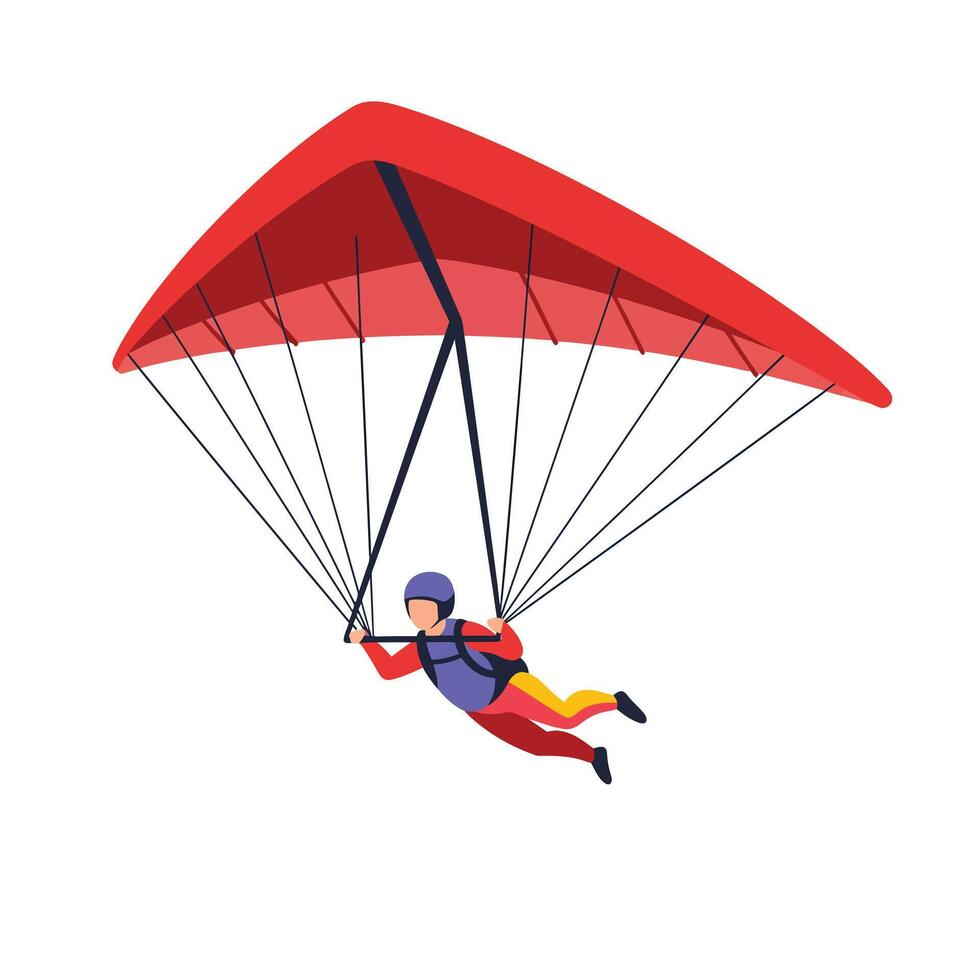
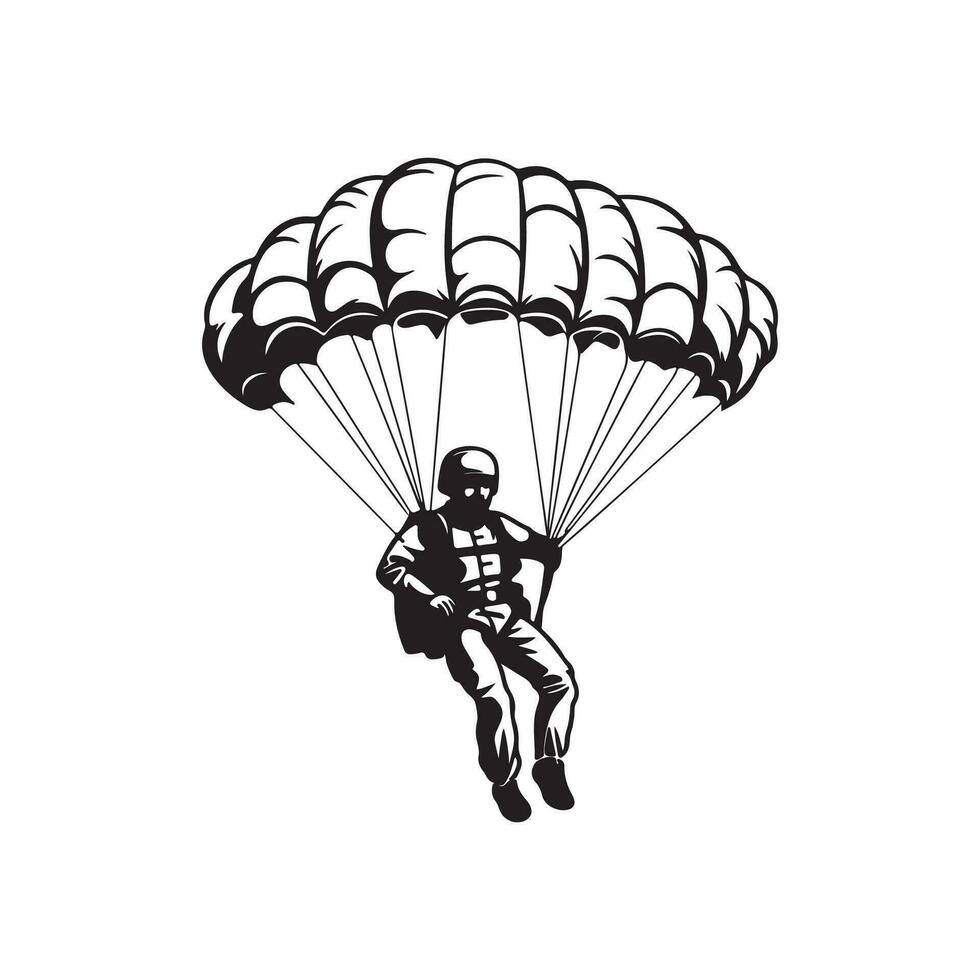
video & footer

diff --git a/index.html b/index.html
@@ -218,7 +218,8 @@
                             <div class="content">
                                 <div class="title thm-clr1">We aim to get you flying</div>
                                 <div class="big-title">Paragliding in Kenya</div>
-                                <div class="text">As passionate Paragliders, we love all aspects of freeflying, from ridge
+                                <div class="text">As passionate Paragliders, we love all aspects of freeflying, from
+                                    ridge
                                     soaring and hike-and-fly to cross-country, competitions, and acro.</div>
                                 <div class="btn-box">
                                     <a href="tel:[phone redacted]">Start Flying</a>
@@ -239,7 +240,8 @@
                 <div class="row">
                     <div class="col-xl-12 col-lg-12">
                         <div class="boats-skipper-search-box style2 text-center">
-                            <form class="boats-skipper-form" name="boats-skipper-form" action="tel:[phone redacted]" method="post">
+                            <form class="boats-skipper-form" name="boats-skipper-form" action="tel:[phone redacted]"
+                                method="post">
                                 <div class="row">
                                     <div class="col-xl-12">
                                         <div class="input-box">
@@ -532,12 +534,12 @@
                                 <span>This exclusive deal is available across our four incredible QLD locations. So
                                     whether you’re chasing rainforest views, reef vistas or sparkling coastline, there’s
                                     a Paraglide with your name on it.</span>
-                                    <div class="meta-box">
-                                        <ul>
-                                            <li><span class="flaticon-art-and-design"></span>1700 ft</li>
-                                            <li><span class="flaticon-user"></span>1 Tandem Pilot</li>
-                                        </ul>
-                                    </div>
+                                <div class="meta-box">
+                                    <ul>
+                                        <li><span class="flaticon-art-and-design"></span>1700 ft</li>
+                                        <li><span class="flaticon-user"></span>1 Tandem Pilot</li>
+                                    </ul>
+                                </div>
                             </div>
                         </div>
                         <!--End Single Yachts Box-->
@@ -557,14 +559,15 @@
                             </div>
                             <div class="title-holder">
                                 <h2><a href="#">Jump Again Within 3 Months</a></h2>
-                                <span>Jump again within 3 months of your original Paraglide date and get KES 2000 OFF your
+                                <span>Jump again within 3 months of your original Paraglide date and get KES 2000 OFF
+                                    your
                                     next jump.</span>
-                                    <div class="meta-box">
-                                        <ul>
-                                            <li><span class="flaticon-art-and-design"></span>1500 ft</li>
-                                            <li><span class="flaticon-user"></span>1 Tandem Pilot</li>
-                                        </ul>
-                                    </div>
+                                <div class="meta-box">
+                                    <ul>
+                                        <li><span class="flaticon-art-and-design"></span>1500 ft</li>
+                                        <li><span class="flaticon-user"></span>1 Tandem Pilot</li>
+                                    </ul>
+                                </div>
                             </div>
                         </div>
                         <!--End Single Yachts Box-->
@@ -605,7 +608,8 @@
                                         <h4>Do I need prior experience?</h4>
                                     </div>
                                     <div class="accord-content collapsed">
-                                        <p> No. Tandem flights are instructional and fully managed by your certified instructor.</p>
+                                        <p> No. Tandem flights are instructional and fully managed by your certified
+                                            instructor.</p>
                                     </div>
                                 </div>
                                 <!--End single accordion box-->
@@ -615,7 +619,9 @@
                                         <h4>What should I wear?</h4>
                                     </div>
                                     <div class="accord-content">
-                                        <p> Wear closed-toe shoes (sneakers or hiking boots). Dress according to the weather, but bring a light windbreaker or jacket, as it can be cooler in the air.</p>
+                                        <p> Wear closed-toe shoes (sneakers or hiking boots). Dress according to the
+                                            weather, but bring a light windbreaker or jacket, as it can be cooler in the
+                                            air.</p>
                                     </div>
                                 </div>
                                 <!--End single accordion box-->
@@ -625,7 +631,9 @@
                                         <h4>How safe is paragliding? </h4>
                                     </div>
                                     <div class="accord-content">
-                                        <p> Paragliding is considered extremely safe. Equipment includes multiple secure harness points, and our instructors are licensed professionals with years of experience</p>
+                                        <p> Paragliding is considered extremely safe. Equipment includes multiple secure
+                                            harness points, and our instructors are licensed professionals with years of
+                                            experience</p>
                                     </div>
                                 </div>
                                 <!--End single accordion box-->
@@ -781,47 +789,38 @@
         </section>
         <!--End Testimonial Area-->
 
-        <!--Start Partner Area Style2-->
-        <section class="partner-area style2">
-            <div class="container">
-                <div class="row">
-                    <div class="col-xl-12">
-                        <div class="partner-box">
-                            <!--Start Single Partner Logo Box-->
-                            <div class="single-partner-logo-box">
-                                <a href="#"><img src="images/resources/company-logos/6.png" alt="Awesome Image"></a>
-                            </div>
-                            <!--End Single Partner Logo Box-->
-                            <!--Start Single Partner Logo Box-->
-                            <div class="single-partner-logo-box">
-                                <a href="#"><img src="images/resources/company-logos/7.png" alt="Awesome Image"></a>
-                            </div>
-                            <!--End Single Partner Logo Box-->
-                            <!--Start Single Partner Logo Box-->
-                            <div class="single-partner-logo-box">
-                                <a href="#"><img src="images/resources/company-logos/8.png" alt="Awesome Image"></a>
-                            </div>
-                            <!--End Single Partner Logo Box-->
-                            <!--Start Single Partner Logo Box-->
-                            <div class="single-partner-logo-box">
-                                <a href="#"><img src="images/resources/company-logos/9.png" alt="Awesome Image"></a>
-                            </div>
-                            <!--End Single Partner Logo Box-->
-                            <!--Start Single Partner Logo Box-->
-                            <div class="single-partner-logo-box">
-                                <a href="#"><img src="images/resources/company-logos/10.png" alt="Awesome Image"></a>
-                            </div>
-                            <!--End Single Partner Logo Box-->
-                        </div>
+
+        <div class="gallery-container">
+            <h1 class="gallery-title">Our Gallery</h1>
+
+            <div class="video-grid">
+                <!-- Video Box 1 -->
+                <div class="video-box">
+                    <div class="video-wrapper">
+                        <video controls preload="metadata">
+                            <source src="images/IMG_9464.MOV" type="video/mp4">
+                            Your browser does not support the video tag.
+                        </video>
                     </div>
                 </div>
+
+                <!-- Video Box 2 -->
+                <div class="video-box">
+                    <div class="video-wrapper">
+                        <video controls preload="metadata">
+                            <source src="images/IMG_9465.MOV" type="video/mp4">
+                            Your browser does not support the video tag.
+                        </video>
+                    </div>
+                </div>
+
             </div>
-        </section>
-        <!--End Partner Area Style2-->
+        </div>
 
-        
+        <br><br>
 
-        
+
+
 
 
         <!--Start footer area Style2-->
@@ -857,18 +856,17 @@
                                         <div class="col-xl-6">
                                             <ul class="explore-links">
                                                 <li><a href="about.html">Our Story</a></li>
-                                                <li><a href="#">Destinations</a></li>
-                                                <li><a href="#">Meet the Team</a></li>
-                                                <li><a href="#">Our Pricings</a></li>
+                                                <li><a href="packages.html">Destinations</a></li>
+                                                <li><a href="about.html">Meet the Team</a></li>
+                                                <li><a href="packages.html">Our Pricings</a></li>
 
                                             </ul>
                                         </div>
                                         <div class="col-xl-6">
                                             <ul class="explore-links">
-                                                <li><a href="#">Support</a></li>
-                                                <li><a href="#">FAQs</a></li>
-                                                <li><a href="#">Privacy Policy</a></li>
-                                                <li><a href="#">Terms of Conditions</a></li>
+                                                <li><a href="contact.html">Support</a></li>
+                                                <li><a href="contact.html">FAQs</a></li>
+                                                <li><a href="contact.html">Privacy Policy</a></li>
                                             </ul>
                                         </div>
                                     </div>

diff --git a/css/style.css b/css/style.css
@@ -303,7 +303,7 @@ li {
 }
 
 .sec-title .big-title.black h1 {
-    color: #022447;
+    color: #FF7700;
 }
 
 
@@ -7183,3 +7183,76 @@ select:focus {
   .flb.cl {
     background: #FF7700
   }
+
+
+/* Container Structure */
+.gallery-container {
+    max-width: 1200px;
+    margin: 0 auto;
+}
+
+.gallery-title {
+    text-align: center;
+    margin-bottom: 2.5rem;
+    font-size: 2.25rem;
+    letter-spacing: -0.05em;
+    color: #FF7700;
+}
+
+/* Responsive Grid Layout */
+.video-grid {
+    display: grid;
+    grid-template-columns: repeat(auto-fill, minmax(300px, 1fr));
+    gap: 2rem;
+}
+
+/* Individual Video Box Styles */
+.video-box {
+    background-color: #1e293b;
+    border-radius: 12px;
+    overflow: hidden;
+    box-shadow: 0 4px 6px -1px rgba(0, 0, 0, 0.1), 0 2px 4px -1px rgba(0, 0, 0, 0.06);
+    transition: transform 0.2s ease, box-shadow 0.2s ease;
+}
+
+.video-box:hover {
+    transform: translateY(-4px);
+    box-shadow: 0 10px 15px -3px rgba(0, 0, 0, 0.3);
+}
+
+/* Enforces Strict 16:9 Aspect Ratio on Player Content */
+.video-wrapper {
+    position: relative;
+    width: 100%;
+    aspect-ratio: 16 / 9; /* Modern CSS standard for video clipping containment */
+    background-color: #000;
+}
+
+.video-wrapper video,
+.video-wrapper iframe {
+    position: absolute;
+    top: 0;
+    left: 0;
+    width: 100%;
+    height: 100%;
+    object-fit: cover; /* Ensures video scales smoothly without distortion */
+    border: none;
+}
+
+/* Typography Under Video Boxes */
+.video-info {
+    padding: 1.25rem;
+}
+
+.video-info h3 {
+    font-size: 1.125rem;
+    font-weight: 600;
+    margin-bottom: 0.5rem;
+    color: #f1f5f9;
+}
+
+.video-info p {
+    font-size: 0.875rem;
+    color: #94a3b8;
+    line-height: 1.4;
+}

diff --git a/about.html b/about.html
@@ -548,18 +548,17 @@
                                         <div class="col-xl-6">
                                             <ul class="explore-links">
                                                 <li><a href="about.html">Our Story</a></li>
-                                                <li><a href="#">Destinations</a></li>
-                                                <li><a href="#">Meet the Team</a></li>
-                                                <li><a href="#">Our Pricings</a></li>
+                                                <li><a href="packages.html">Destinations</a></li>
+                                                <li><a href="about.html">Meet the Team</a></li>
+                                                <li><a href="packages.html">Our Pricings</a></li>
 
                                             </ul>
                                         </div>
                                         <div class="col-xl-6">
                                             <ul class="explore-links">
-                                                <li><a href="#">Support</a></li>
-                                                <li><a href="#">FAQs</a></li>
-                                                <li><a href="#">Privacy Policy</a></li>
-                                                <li><a href="#">Terms of Conditions</a></li>
+                                                <li><a href="contact.html">Support</a></li>
+                                                <li><a href="contact.html">FAQs</a></li>
+                                                <li><a href="contact.html">Privacy Policy</a></li>
                                             </ul>
                                         </div>
                                     </div>

diff --git a/contact.html b/contact.html
@@ -287,9 +287,8 @@
                                         <div class="col-xl-6">
                                             <ul class="explore-links">
                                                 <li><a href="contact.html">Support</a></li>
-                                                <li><a href="#">FAQs</a></li>
-                                                <li><a href="#">Privacy Policy</a></li>
-                                                <li><a href="#">Terms of Conditions</a></li>
+                                                <li><a href="contact.html">FAQs</a></li>
+                                                <li><a href="contact.html">Privacy Policy</a></li>
                                             </ul>
                                         </div>
                                     </div>

diff --git a/packages.html b/packages.html
@@ -398,9 +398,8 @@
                                     <div class="col-xl-6">
                                         <ul class="explore-links">
                                             <li><a href="contact.html">Support</a></li>
-                                            <li><a href="#">FAQs</a></li>
-                                            <li><a href="#">Privacy Policy</a></li>
-                                            <li><a href="#">Terms of Conditions</a></li>
+                                            <li><a href="contact.html">FAQs</a></li>
+                                            <li><a href="contact.html">Privacy Policy</a></li>
                                         </ul>
                                     </div>
                                 </div>

diff --git a/services.html b/services.html
@@ -457,9 +457,8 @@
                                         <div class="col-xl-6">
                                             <ul class="explore-links">
                                                 <li><a href="contact.html">Support</a></li>
-                                                <li><a href="#">FAQs</a></li>
-                                                <li><a href="#">Privacy Policy</a></li>
-                                                <li><a href="#">Terms of Conditions</a></li>
+                                                <li><a href="contact.html">FAQs</a></li>
+                                                <li><a href="contact.html">Privacy Policy</a></li>
                                             </ul>
                                         </div>
                                     </div>